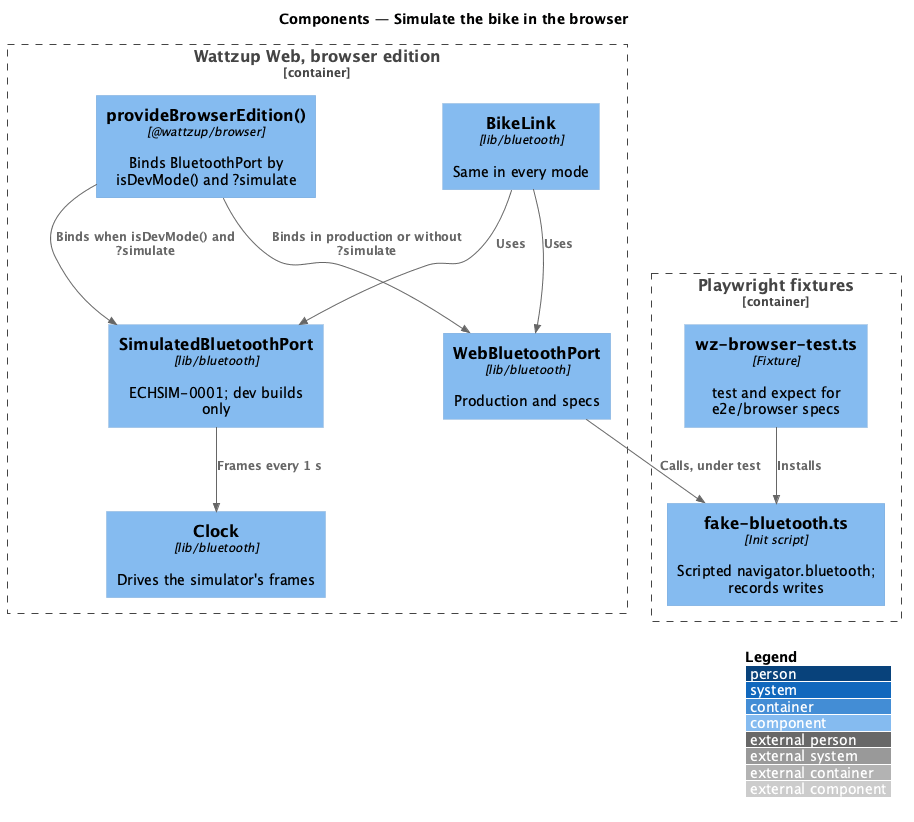
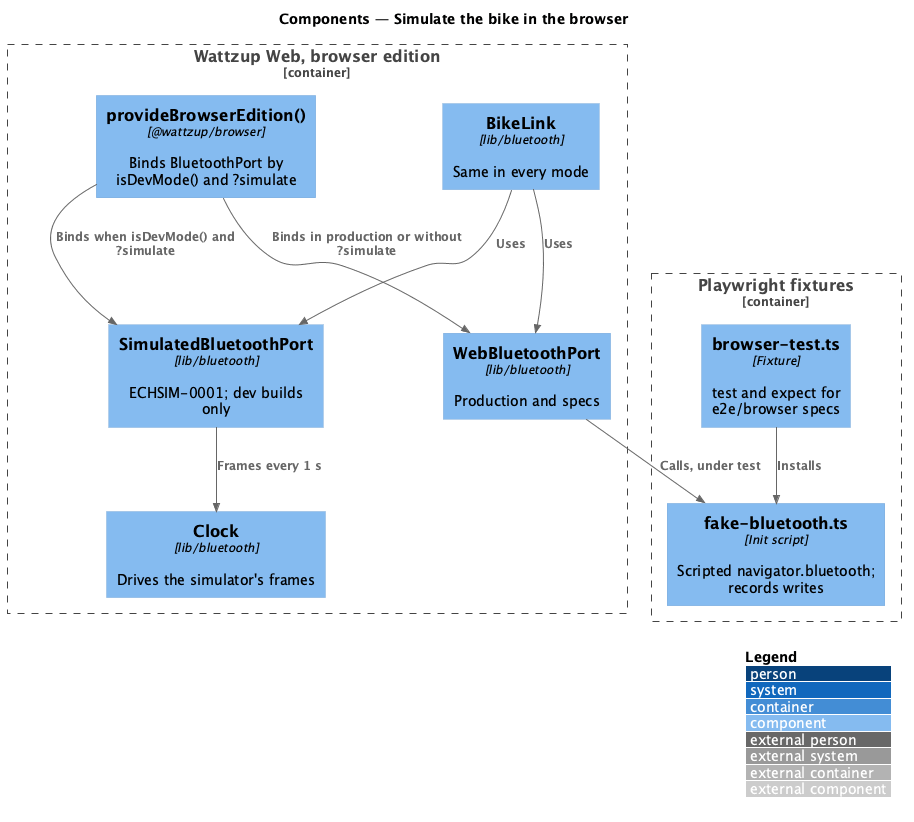
Ride a simulated bike in a development build with ?simulate (L2-099)
SimulatedBluetoothPort answers Connect bike with ECHSIM-0001 and no
chooser, and behaves as SimulatedBikeConnection: a 0xD1 frame of
85 rpm each second and a 0xD2 echo for each resistance write, with
the same bytes. provideBrowserEdition binds it only when isDevMode()
and the address holds simulate, and marks the state simulated, so
the Simulated bike banner shows, worded for the browser. A browser
spec proves the production build ignores ?simulate.

Claude-Session: https://claude.ai/code/session_01LjZiMpoGntqpkHCTb1UvJf

Changed region(s): [[0.7352, 0.3954, 0.9497, 0.517]]

diff --git a/frontend/projects/browser/src/lib/bluetooth/simulated-bluetooth-port.ts b/frontend/projects/browser/src/lib/bluetooth/simulated-bluetooth-port.ts
@@ -1,0 +1,105 @@
+// The development simulator (L2-099 AC1): a bike that needs no chooser and behaves as the backend's
+// SimulatedBikeConnection, sending a 0xD1 workout frame each second and echoing each resistance
+// write as a 0xD2 frame, with the same bytes. Bound only in a development build opened with
+// ?simulate; production builds never construct it.
+import { checksum } from '../protocol/echelon-commands';
+import { MARKER, RESISTANCE, WORKOUT_DATA } from '../protocol/packet-decoder';
+import type { BikeDevice, BluetoothPort, GattLink } from './bluetooth-port';
+import type { Clock } from './clock';
+
+/** As SimulatedBikeTransport.DeviceName. */
+export const SIMULATED_BIKE_NAME = 'ECHSIM-0001';
+/** As SimulationControl.Cadence's default. */
+export const SIMULATED_CADENCE = 85;
+
+/** True in a development build whose address holds the `simulate` parameter. */
+export function simulateRequested(devMode: boolean, search: string): boolean {
+  return devMode && new URLSearchParams(search).has('simulate');
+}
+
+export class SimulatedBluetoothPort implements BluetoothPort {
+  constructor(private readonly clock: Clock) {}
+
+  async requestBike(): Promise<BikeDevice> {
+    return new SimulatedBike(this.clock);
+  }
+}
+
+class SimulatedBike implements BikeDevice {
+  readonly name = SIMULATED_BIKE_NAME;
+  private readonly listeners: (() => void)[] = [];
+
+  constructor(private readonly clock: Clock) {}
+
+  async connect(): Promise<GattLink> {
+    return new SimulatedLink(this.clock);
+  }
+
+  onDisconnected(listener: () => void): void {
+    this.listeners.push(listener);
+  }
+}
+
+class SimulatedLink implements GattLink {
+  private onPacket: ((frame: Uint8Array) => void) | null = null;
+  private connected = true;
+  private readonly openedAt: number;
+  private tick = 0;
+
+  constructor(private readonly clock: Clock) {
+    this.openedAt = clock.now();
+  }
+
+  async startNotifications(onPacket: (frame: Uint8Array) => void): Promise<void> {
+    this.onPacket = onPacket;
+    void this.stream();
+  }
+
+  async write(bytes: Uint8Array): Promise<void> {
+    if (!this.connected) throw new Error('The simulated bike is not connected.');
+    if (bytes.length === 5 && bytes[0] === MARKER && bytes[1] === 0xb1 && bytes[2] === 0x01) {
+      this.deliver(withChecksum([MARKER, RESISTANCE, 0x01, bytes[3], 0]));
+    }
+  }
+
+  disconnect(): void {
+    this.connected = false;
+  }
+
+  private async stream(): Promise<void> {
+    for (;;) {
+      await this.clock.delay(1000);
+      if (!this.connected) return;
+      const tick = ++this.tick & 0xffff;
+      const elapsed = Math.floor((this.clock.now() - this.openedAt) / 1000) & 0xffff;
+      const cadence = SIMULATED_CADENCE;
+      this.deliver(
+        withChecksum([
+          MARKER,
+          WORKOUT_DATA,
+          0x09,
+          elapsed >> 8,
+          elapsed & 0xff,
+          0,
+          0,
+          tick >> 8,
+          tick & 0xff,
+          cadence >> 8,
+          cadence & 0xff,
+          0,
+          0,
+        ]),
+      );
+    }
+  }
+
+  private deliver(frame: Uint8Array): void {
+    if (this.connected) this.onPacket?.(frame);
+  }
+}
+
+function withChecksum(bytes: number[]): Uint8Array {
+  const frame = Uint8Array.from(bytes);
+  frame[frame.length - 1] = checksum(frame.subarray(0, frame.length - 1));
+  return frame;
+}

diff --git a/frontend/projects/browser/src/lib/bluetooth/simulated-bluetooth-port.spec.ts b/frontend/projects/browser/src/lib/bluetooth/simulated-bluetooth-port.spec.ts
@@ -1,0 +1,64 @@
+// Unit Test
+// Traces to: L2-099
+// Description: The development simulator answers Connect bike without a chooser and behaves as
+// SimulatedBikeConnection: a 0xD1 workout frame each second, a 0xD2 echo for each resistance write.
+import { decode } from '../protocol/packet-decoder';
+import { setResistance } from '../protocol/echelon-commands';
+import { FakeClock } from './fake-clock';
+import {
+  SIMULATED_BIKE_NAME,
+  SimulatedBluetoothPort,
+  simulateRequested,
+} from './simulated-bluetooth-port';
+
+async function connected() {
+  const clock = new FakeClock();
+  const port = new SimulatedBluetoothPort(clock);
+  const bike = (await port.requestBike())!;
+  const link = await bike.connect();
+  const frames: Uint8Array[] = [];
+  await link.startNotifications((f) => frames.push(f));
+  return { clock, bike, link, frames };
+}
+
+describe('SimulatedBluetoothPort', () => {
+  it('answers the simulated bike at once, with no chooser', async () => {
+    const bike = await new SimulatedBluetoothPort(new FakeClock()).requestBike();
+    expect(bike?.name).toBe(SIMULATED_BIKE_NAME);
+  });
+
+  it('sends a workout frame each second with the simulated cadence', async () => {
+    const { clock, frames } = await connected();
+    await clock.advance(3000);
+    expect(frames).toHaveLength(3);
+    expect(frames.map((f) => decode(f))).toEqual(
+      Array(3).fill(expect.objectContaining({ kind: 'cadence', rpm: 85 })),
+    );
+  });
+
+  it('echoes each resistance write as a resistance frame', async () => {
+    const { link, frames } = await connected();
+    await link.write(setResistance(14));
+    expect(decode(frames.at(-1)!)).toEqual({ kind: 'resistance', level: 14 });
+  });
+
+  it('stops sending once disconnected', async () => {
+    const { clock, link, frames } = await connected();
+    link.disconnect();
+    await clock.advance(3000);
+    expect(frames).toEqual([]);
+  });
+});
+
+describe('simulateRequested', () => {
+  it.each([
+    [true, '?simulate', true],
+    [true, '?simulate=1', true],
+    [true, '?a=b&simulate', true],
+    [true, '', false],
+    [true, '?simulated', false],
+    [false, '?simulate', false],
+  ])('dev mode %s with "%s" simulates: %s', (devMode, search, expected) => {
+    expect(simulateRequested(devMode, search)).toBe(expected);
+  });
+});

diff --git a/frontend/projects/browser/src/lib/contracts/provide-browser-edition.ts b/frontend/projects/browser/src/lib/contracts/provide-browser-edition.ts
@@ -1,6 +1,8 @@
 // Binds every api contract to its in-browser implementation (L2-088, ADR 0017).
 import {
   type EnvironmentProviders,
+  inject,
+  isDevMode,
   makeEnvironmentProviders,
   provideEnvironmentInitializer,
 } from '@angular/core';
@@ -16,6 +18,8 @@ import {
 } from '@wattzup/api';
 import { BikeLink } from '../bluetooth/bike-link';
 import { BLUETOOTH_PORT } from '../bluetooth/bluetooth-port';
+import { CLOCK } from '../bluetooth/clock';
+import { SimulatedBluetoothPort, simulateRequested } from '../bluetooth/simulated-bluetooth-port';
 import { WebBluetoothPort } from '../bluetooth/web-bluetooth-port';
 import { BikeStateStore } from '../engine/bike-state-store';
 import { ResistanceCommander } from '../engine/resistance-commander';
@@ -37,6 +41,8 @@ function requestPersistentStorage(): void {
 }
 
 export function provideBrowserEdition(): EnvironmentProviders {
+  // A development build opened with ?simulate rides the simulated bike (L2-099 AC1).
+  const simulate = simulateRequested(isDevMode(), location.search);
   return makeEnvironmentProviders([
     { provide: EDITION, useValue: 'browser' },
     BikeStateStore,
@@ -45,7 +51,9 @@ export function provideBrowserEdition(): EnvironmentProviders {
     ResistanceCommander,
     WorkoutEngine,
     SessionStore,
-    { provide: BLUETOOTH_PORT, useClass: WebBluetoothPort },
+    simulate
+      ? { provide: BLUETOOTH_PORT, useFactory: () => new SimulatedBluetoothPort(inject(CLOCK)) }
+      : { provide: BLUETOOTH_PORT, useClass: WebBluetoothPort },
     { provide: LIVE_STATE_SOURCE, useClass: BrowserStateSource },
     { provide: BIKE_PAIRING, useClass: BrowserBikePairing },
     { provide: BIKE_API, useClass: BrowserBikeApi },
@@ -55,5 +63,8 @@ export function provideBrowserEdition(): EnvironmentProviders {
     { provide: SESSION_API, useClass: BrowserSessionApi },
     { provide: SESSION_ARCHIVE, useClass: BrowserSessionArchive },
     provideEnvironmentInitializer(requestPersistentStorage),
+    provideEnvironmentInitializer(() => {
+      if (simulate) inject(BikeStateStore).update((s) => ({ ...s, simulated: true }));
+    }),
   ]);
 }

diff --git a/frontend/projects/wattzup/src/app/core/connection-banners.ts b/frontend/projects/wattzup/src/app/core/connection-banners.ts
@@ -1,5 +1,5 @@
 // Which connection banners show (L2-054). Pure: the service supplies time, history and dismissals.
-import type { BikeState, StreamConnection } from '@wattzup/api';
+import type { BikeState, StreamConnection, Edition } from '@wattzup/api';
 import { formatDuration } from './format-duration';
 import { isActive } from './workout-status';
 
@@ -23,6 +23,8 @@ export interface BannerInput {
   lastStateTime: string | null;
   reconnected: { label: string; elapsed: number; level: number | null } | null;
   dismissed: ReadonlySet<BannerId>;
+  /** How the simulator was asked for differs: --simulate on the backend, ?simulate in the browser. */
+  edition?: Edition;
 }
 
 export function banners(input: BannerInput): Banner[] {
@@ -80,7 +82,10 @@ export function banners(input: BannerInput): Banner[] {
       tone: 'info',
       icon: 'info',
       title: 'Simulated bike',
-      text: 'No hardware connected — Wattzup started with --simulate and is generating cadence and resistance.',
+      text:
+        input.edition === 'browser'
+          ? 'No hardware connected — Wattzup was opened with ?simulate and is generating cadence and resistance.'
+          : 'No hardware connected — Wattzup started with --simulate and is generating cadence and resistance.',
       action: null,
       dismissable: true,
     });

diff --git a/frontend/projects/wattzup/src/app/core/connection-banner.service.ts b/frontend/projects/wattzup/src/app/core/connection-banner.service.ts
@@ -1,6 +1,6 @@
 // Holds banner history and dismissals; the rules live in connection-banners.ts (L2-054).
 import { Injectable, computed, effect, inject, signal, untracked } from '@angular/core';
-import { type BikeState, SafeStorage } from '@wattzup/api';
+import { type BikeState, SafeStorage, EDITION } from '@wattzup/api';
 import { type BannerId, banners, isReconnect } from './connection-banners';
 import { LiveStateService } from './live-state.service';
 import { clockTime } from './local-time';
@@ -11,6 +11,7 @@ export const RECONNECTED_MS = 4000;
 @Injectable({ providedIn: 'root' })
 export class ConnectionBannerService {
   private readonly live = inject(LiveStateService);
+  private readonly edition = inject(EDITION);
   private readonly storage = new SafeStorage(() => sessionStorage);
   private readonly dismissed = signal<ReadonlySet<BannerId>>(this.loadDismissed());
   private readonly reconnected = signal<{
@@ -29,6 +30,7 @@ export class ConnectionBannerService {
       lastStateTime: at ? clockTime(at) : null,
       reconnected: this.reconnected(),
       dismissed: this.dismissed(),
+      edition: this.edition,
     });
   });
 

diff --git a/frontend/e2e/browser/simulate.spec.ts b/frontend/e2e/browser/simulate.spec.ts
@@ -1,0 +1,19 @@
+// Acceptance Test
+// Traces to: L2-099
+// Description: The simulated bike is for development builds only: the production build served here
+// ignores ?simulate, so Connect bike still opens the browser's chooser and no simulator is shown.
+import { expect, test } from './fixtures/browser-test';
+import { BrowserRidePage } from './pages/browser-ride.page';
+
+test('a production build ignores ?simulate: Connect bike opens the chooser', async ({
+  page,
+  bluetooth,
+}) => {
+  const ride = new BrowserRidePage(page);
+  await ride.open('?simulate');
+  await expect(ride.statusName).toHaveText('No bike connected');
+  await ride.connect();
+  await expect(ride.statusState).toHaveText('Connected');
+  expect(await bluetooth.count('requestDevice')).toBe(1);
+  await expect(page.getByText('Simulated bike', { exact: false })).toHaveCount(0);
+});

diff --git a/frontend/projects/wattzup/src/app/core/connection-banners.spec.ts b/frontend/projects/wattzup/src/app/core/connection-banners.spec.ts
@@ -29,6 +29,13 @@ describe('banners', () => {
     expect(b.action?.kind).toBe('diagnostics');
   });
 
+  it('names ?simulate in the browser edition (L2-099)', () => {
+    const state = testState({ simulated: true });
+    expect(banners({ ...base, state, edition: 'browser' })[0].text).toBe(
+      'No hardware connected — Wattzup was opened with ?simulate and is generating cadence and resistance.',
+    );
+  });
+
   it('shows the exposed and simulated banners until dismissed', () => {
     const state = testState({ exposed: true, simulated: true, bind_address: '0.0.0.0:8787' });
     expect(banners({ ...base, state }).map((b) => b.id)).toEqual(['exposed', 'simulated']);

diff --git a/docs/mocks/notifications/connection-banner/info.html b/docs/mocks/notifications/connection-banner/info.html
@@ -135,7 +135,7 @@
 </aside>
 </div>
 </div>
-<p class="mock-note" style="top: 9rem; right: 24rem;">Shown whenever the simulated transport is active (L2-043); dismissable for the session.</p>
+<p class="mock-note" style="top: 9rem; right: 24rem;">Shown whenever the simulated transport is active (L2-043); dismissable for the session. In the browser edition (a development build opened with ?simulate, L2-099) the text reads: No hardware connected — Wattzup was opened with ?simulate and is generating cadence and resistance.</p>
 
 <nav class="mock-bar" aria-label="Mock navigation">
   <a class="mock-bar__home" href="../../index.html" aria-label="All mocks">⌂</a>

diff --git a/frontend/e2e/browser/pages/browser-ride.page.ts b/frontend/e2e/browser/pages/browser-ride.page.ts
@@ -43,8 +43,8 @@ export class BrowserRidePage {
     return this.page.locator('.metrics > div').filter({ hasText: term }).locator('dd');
   }
 
-  async open(): Promise<void> {
-    await this.page.goto('/');
+  async open(query = ''): Promise<void> {
+    await this.page.goto(`/${query}`);
   }
 
   async connect(): Promise<void> {

diff --git a/docs/detailed-designs/browser-edition/simulate-bike-in-browser/README.md b/docs/detailed-designs/browser-edition/simulate-bike-in-browser/README.md
@@ -14,19 +14,19 @@ Every feature of the backend edition runs end to end without a bike through `Sim
 
 Development simulation:
 
-- **`SimulatedBluetoothPort`** (`@wattzup/browser`, `lib/bluetooth/`) — implements `BluetoothPort`. `requestBike()` answers the simulated bike at once, with no chooser; `knownBikes()` answers it too, so a reload reconnects. Its `GattLink` mirrors `SimulatedBikeConnection`: a `0xD1` frame each second on `Clock` with the simulated cadence, and a `0xD2` frame echoing each `setResistance` write, with the same bytes as the .NET simulator. `supportVerdict` is `ready` (L2-099 criterion 1).
-- **Selection** — `provideBrowserEdition()` binds `BluetoothPort` to `SimulatedBluetoothPort` when `isDevMode()` is `true` and the URL holds `simulate`; otherwise to `WebBluetoothPort`. Production builds (`isDevMode()` `false`) never construct the simulator, and the bundler drops it from the production bundle (L2-099 criterion 1). `simulated` in the state is `true` while it is bound, so the status line shows the simulator as the backend edition does.
+- **`SimulatedBluetoothPort`** (`@wattzup/browser`, `lib/bluetooth/`) — implements `BluetoothPort`. `requestBike()` answers the simulated bike `ECHSIM-0001` at once, with no chooser. Its `GattLink` mirrors `SimulatedBikeConnection`: a `0xD1` frame each second on `Clock` with the simulated cadence (85 rpm), and a `0xD2` frame echoing each `setResistance` write, with the same bytes as the .NET simulator (L2-099 criterion 1).
+- **Selection** — `provideBrowserEdition()` binds `BluetoothPort` to `SimulatedBluetoothPort` when `simulateRequested(isDevMode(), location.search)` is `true` (a development build whose address holds the `simulate` parameter); otherwise to `WebBluetoothPort`. Production builds (`isDevMode()` `false`) never construct the simulator; its class, a few hundred bytes, stays in the bundle (L2-099 criterion 1). `simulated` in the state is `true` while it is bound, so the dashboard shows the *Simulated bike* banner as the backend edition does, worded for the browser: `Wattzup was opened with ?simulate` (the `info` connection-banner mock).
 
 Behaviour specs:
 
-- **`fake-bluetooth.ts`** (`frontend/e2e/fixtures/`) — an `addInitScript` that replaces `navigator.bluetooth` and `isSecureContext` before the app loads. It exposes, through `page.exposeFunction` and `page.evaluate`:
+- **`fake-bluetooth.ts`** (`frontend/e2e/browser/fixtures/`) — an `addInitScript` that replaces `navigator.bluetooth` and `isSecureContext` before the app loads. It exposes, through `page.exposeFunction` and `page.evaluate`:
   - `bluetooth.offer(device)` and `bluetooth.cancelNext()` — what the next `requestDevice` answers;
   - `bluetooth.notify(bytes)` — push a notification on the notify characteristic;
   - `bluetooth.disconnect()` — fire `gattserverdisconnected`;
   - `bluetooth.failNext(name, message)` — reject the next call with a DOMException;
   - `bluetooth.writes` — every write with its bytes and time, and every `requestDevice` call with its filters.
   Any call it has no script for (another service, `getDevices` when not offered, a write before subscribe) fails the spec with the call named (L2-099 criterion 2).
-- **`wz-browser-test.ts`** (`frontend/e2e/fixtures/`) — the browser-edition `test`: it installs `fake-bluetooth.ts` and `fake-youtube.ts`, serves `classes.json` from a recorded fixture, routes `**/api/**` to a failure, and fails the spec on any request to another origin (L2-088 criterion 2). Specs in `frontend/e2e/browser/` import `test` and `expect` from it and use the same page objects as the backend-edition specs.
+- **`browser-test.ts`** (`frontend/e2e/browser/fixtures/`) — the browser-edition `test`: it installs `fake-bluetooth.ts` and `fake-youtube.ts`, routes `**/api/**` to a failure, fails the spec on an error in the page's console, and fails the spec on any request to another origin (L2-088 criterion 2). Specs in `frontend/e2e/browser/` import `test` and `expect` from it and use their own page objects in `e2e/browser/pages/`; a spec that needs a catalogue serves its own `classes.json`, otherwise the build's copy answers. `simulate.spec.ts` proves the production build ignores `?simulate`.
 - **Playwright project** — `playwright.config.ts` gains a `browser-edition` project that serves `dist/wattzup-browser/browser` with `scripts/serve-dist.mjs` and runs `e2e/browser/`; Chromium only, as for every spec.
 
 Unit tests:
